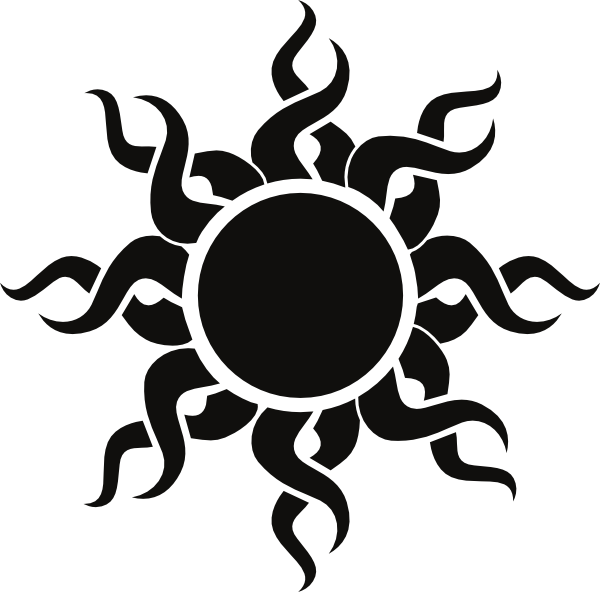
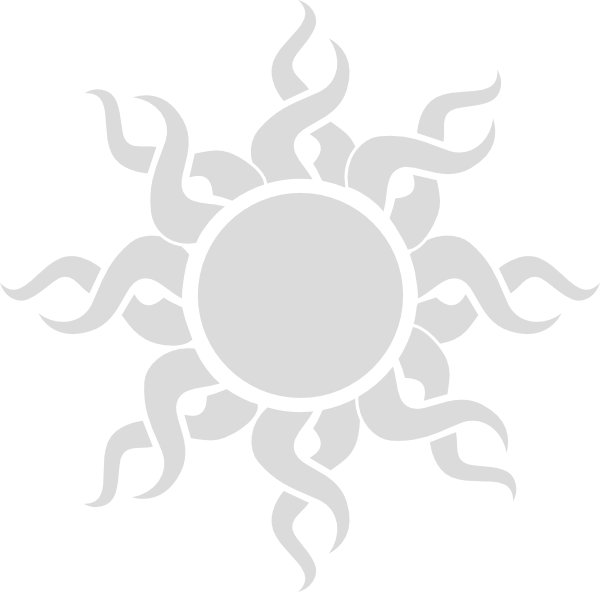
use true background image

Changed region(s): [[0.0, 0.0, 1.0, 1.0]]

diff --git a/main.css b/main.css
@@ -1,17 +1,14 @@
 body {
   margin: 0;
-  background: #000;
   font-family: verdana, sans-serif;
+  max-width: 320px;
+  background: -webkit-gradient(linear, left top, left bottom, color-stop(0.2, #fff),color-stop(0.8, #ccc));
 }
 
 #bodycontainer {
-  position: absolute;
-  left: 30%;
-  top: 0;
-  width: 320px;
-  border: 2px solid #888;
-  padding: 0 0.8em;
-  background: -webkit-gradient(linear, left top, left bottom, color-stop(0.0, #fff),color-stop(1.0, #ccc));
+  padding: 0.1em 0.8em;
+  background: url('sun.png') no-repeat;
+  background-position: 0em -16em;
 }
 
 a {
@@ -22,13 +19,6 @@ a {
 .header {
   margin: 1em 0;
   font-family: georgia, serif;
-}
-
-.header img {
-  position: absolute;
-  top: -16em;
-  left: 0em;
-  opacity: 0.15;
 }
 
 .header .title {
@@ -50,6 +40,9 @@ a {
   padding: 0;
 }
 
+.header .description {
+  font-size: 90%;
+}
 .header .description a {
   font-size: 80%;
   margin-left: 0.5em;

diff --git a/index.html b/index.html
@@ -10,7 +10,6 @@
 
 <div class="header">
   <div class="title">
-    <img src="sun.png" alt="" />
     <h2>The Vaults of</h2>
     <h1>Erowid</h1>
   </div>
